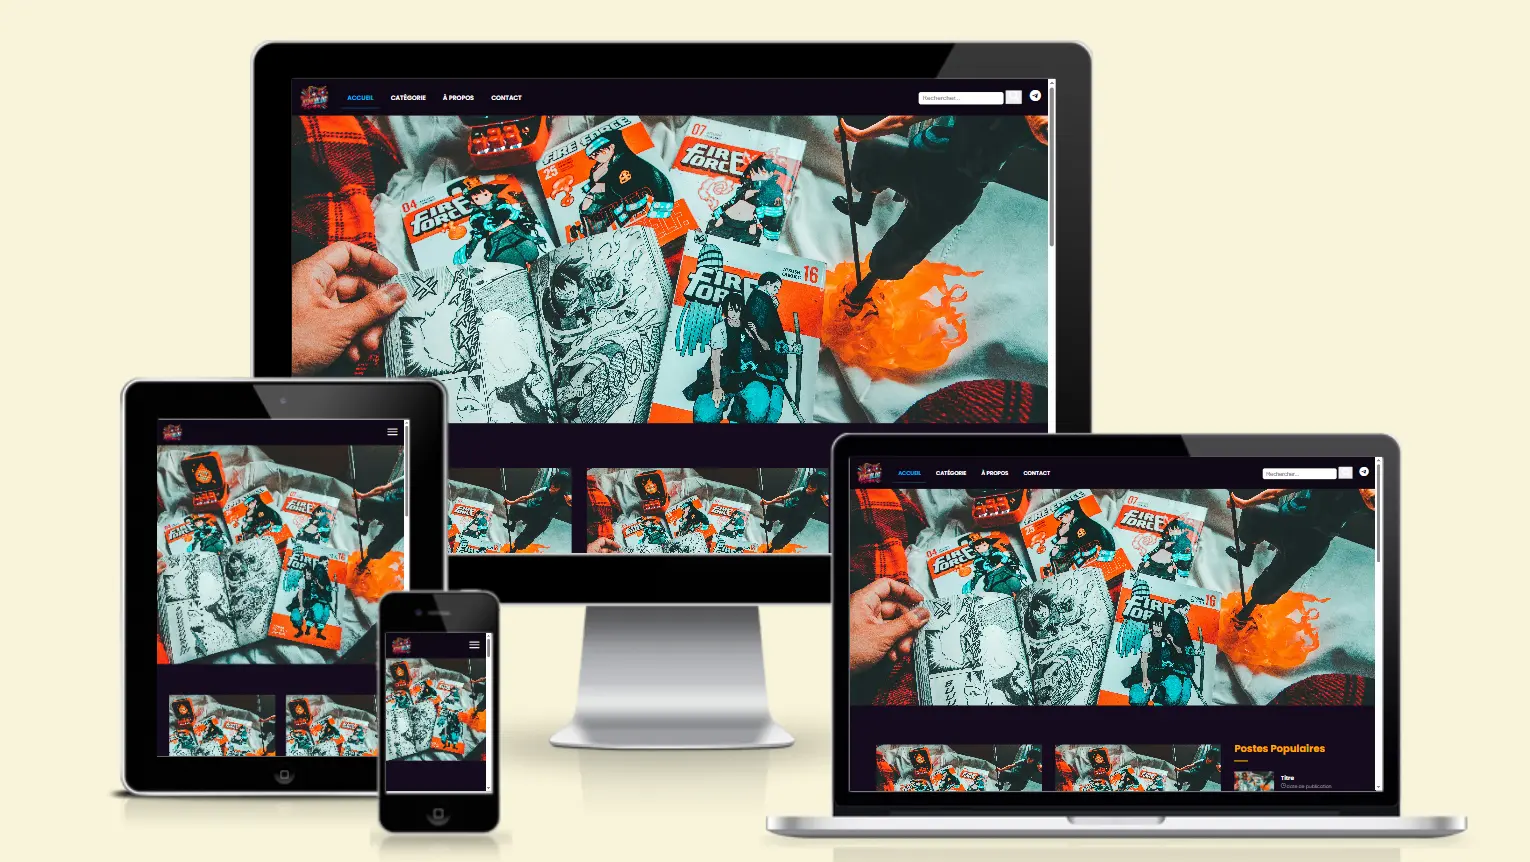
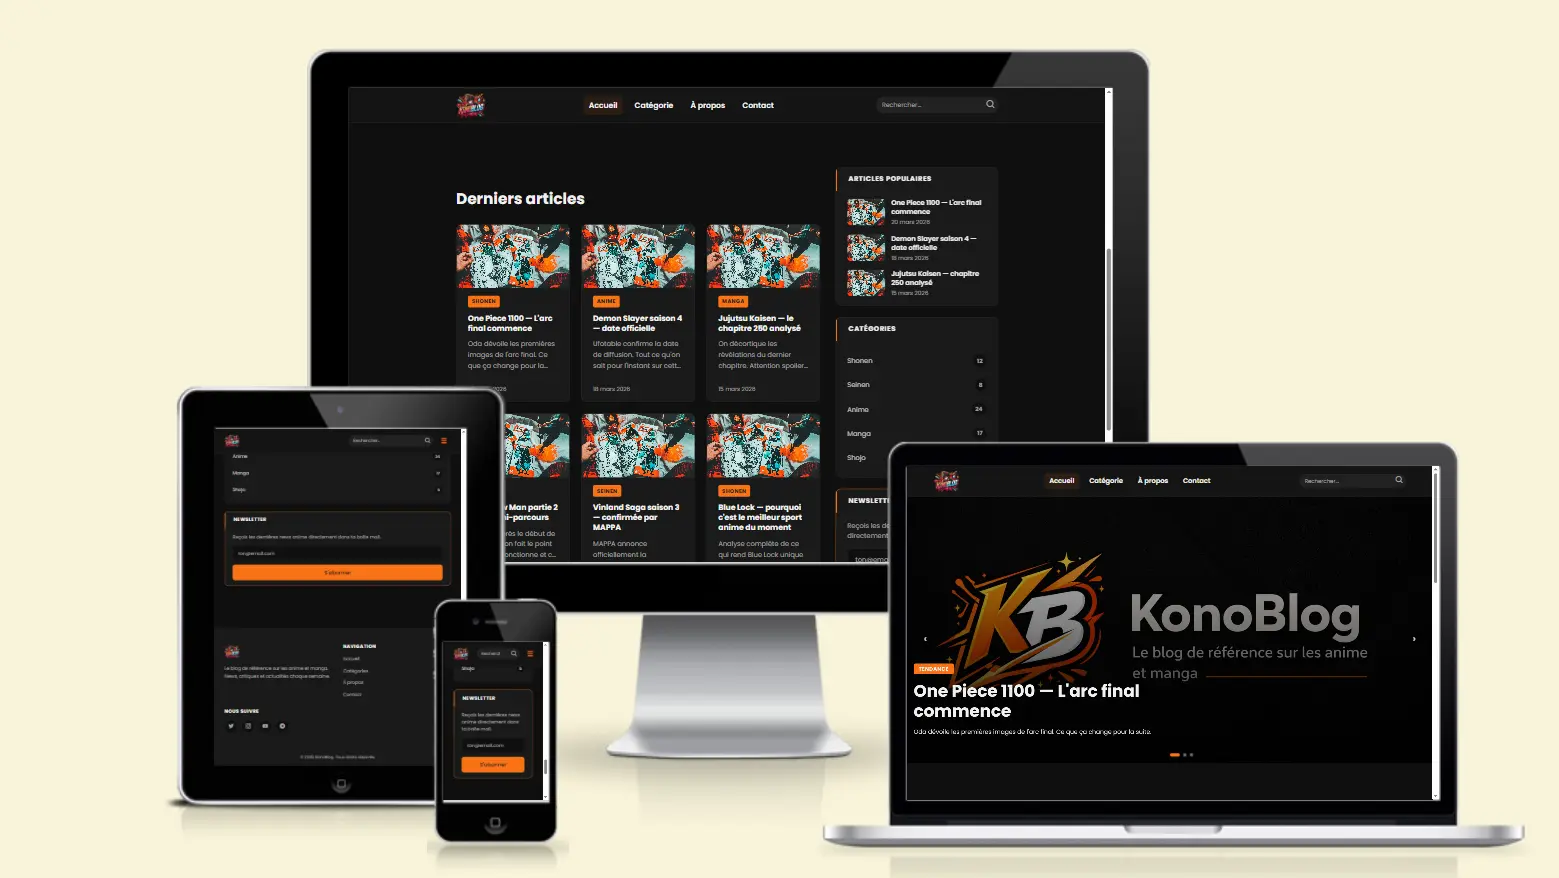
update KONOBLOG image and link

diff --git a/index.html b/index.html
@@ -246,7 +246,7 @@
                 <li>UI simple et intuitive</li>
               </ul>
 
-              <a href="https://herman-pro.github.io/KonoBlog/index.html" target="_blank" rel="noopener noreferrer"
+              <a href="https://konoblog.netlify.app/" target="_blank" rel="noopener noreferrer"
                 class="btn btn--primary">
                 Voir le site
               </a>
